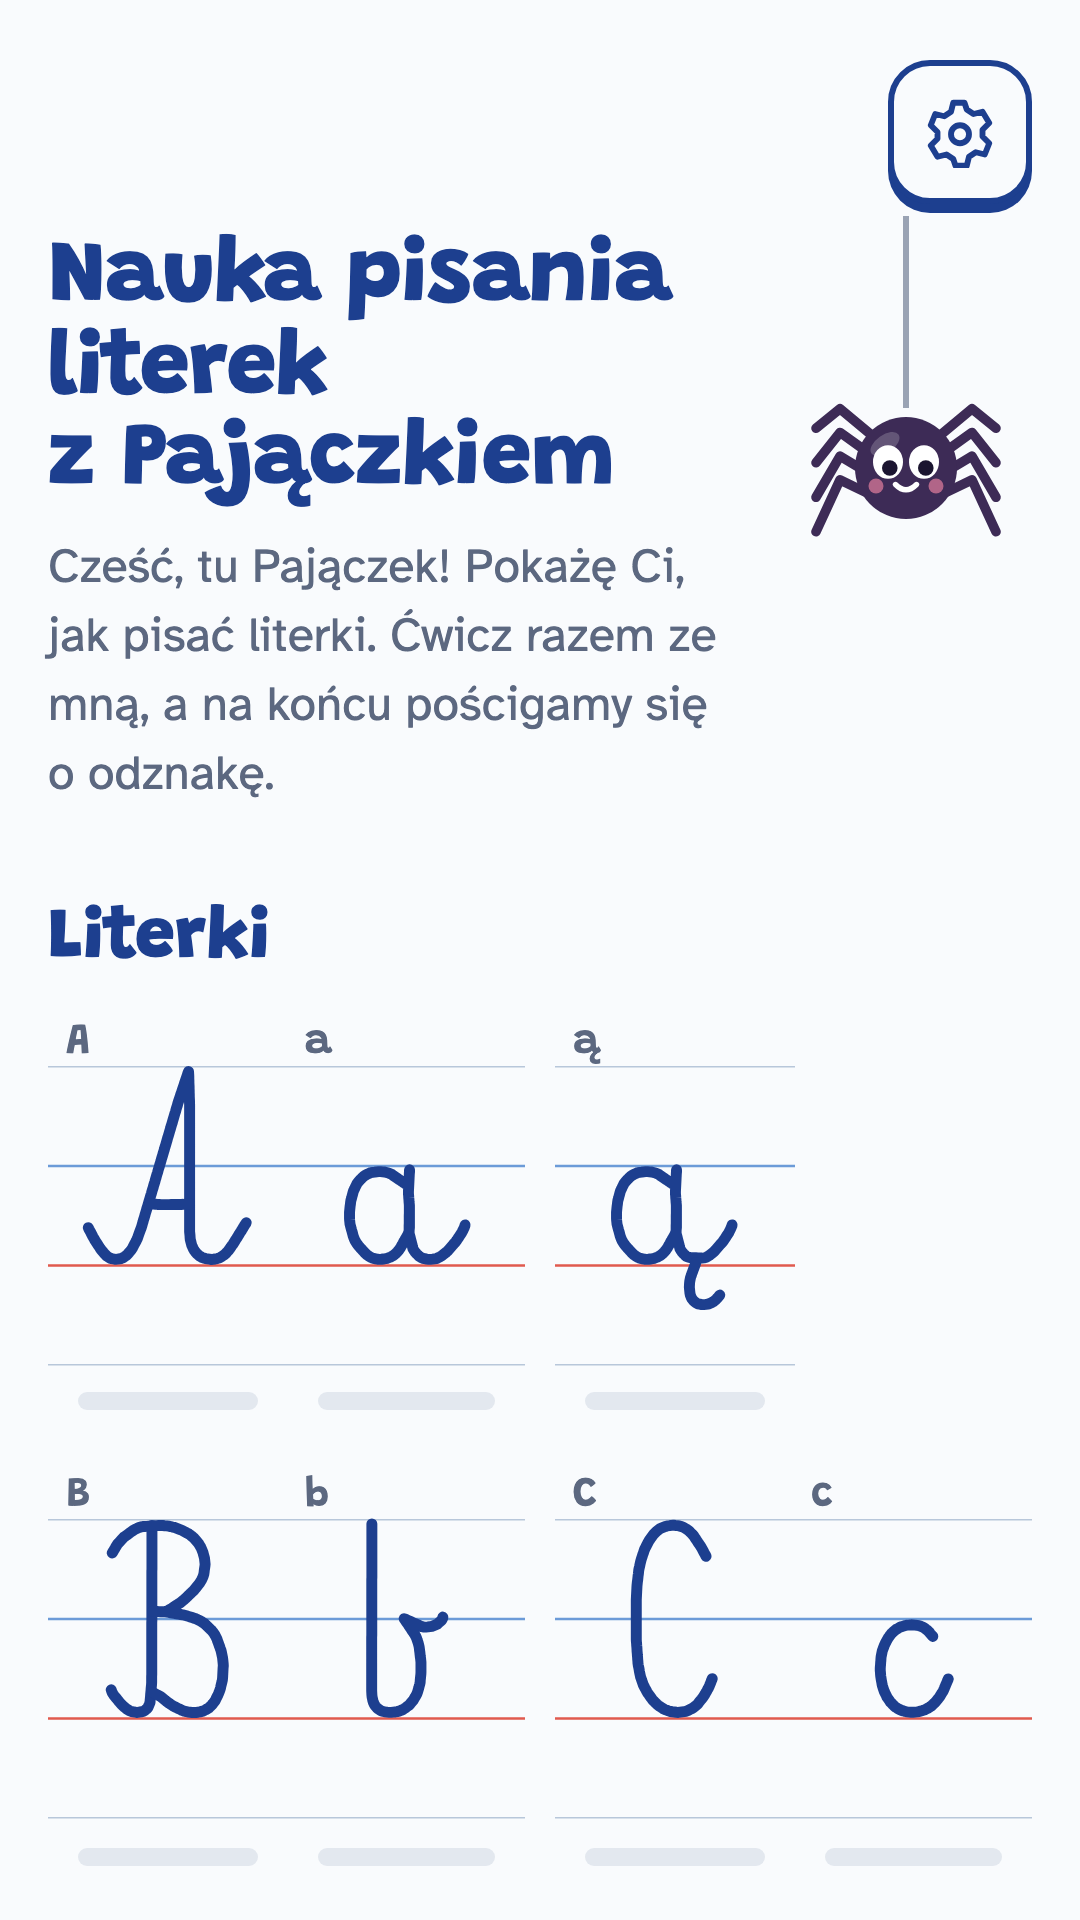
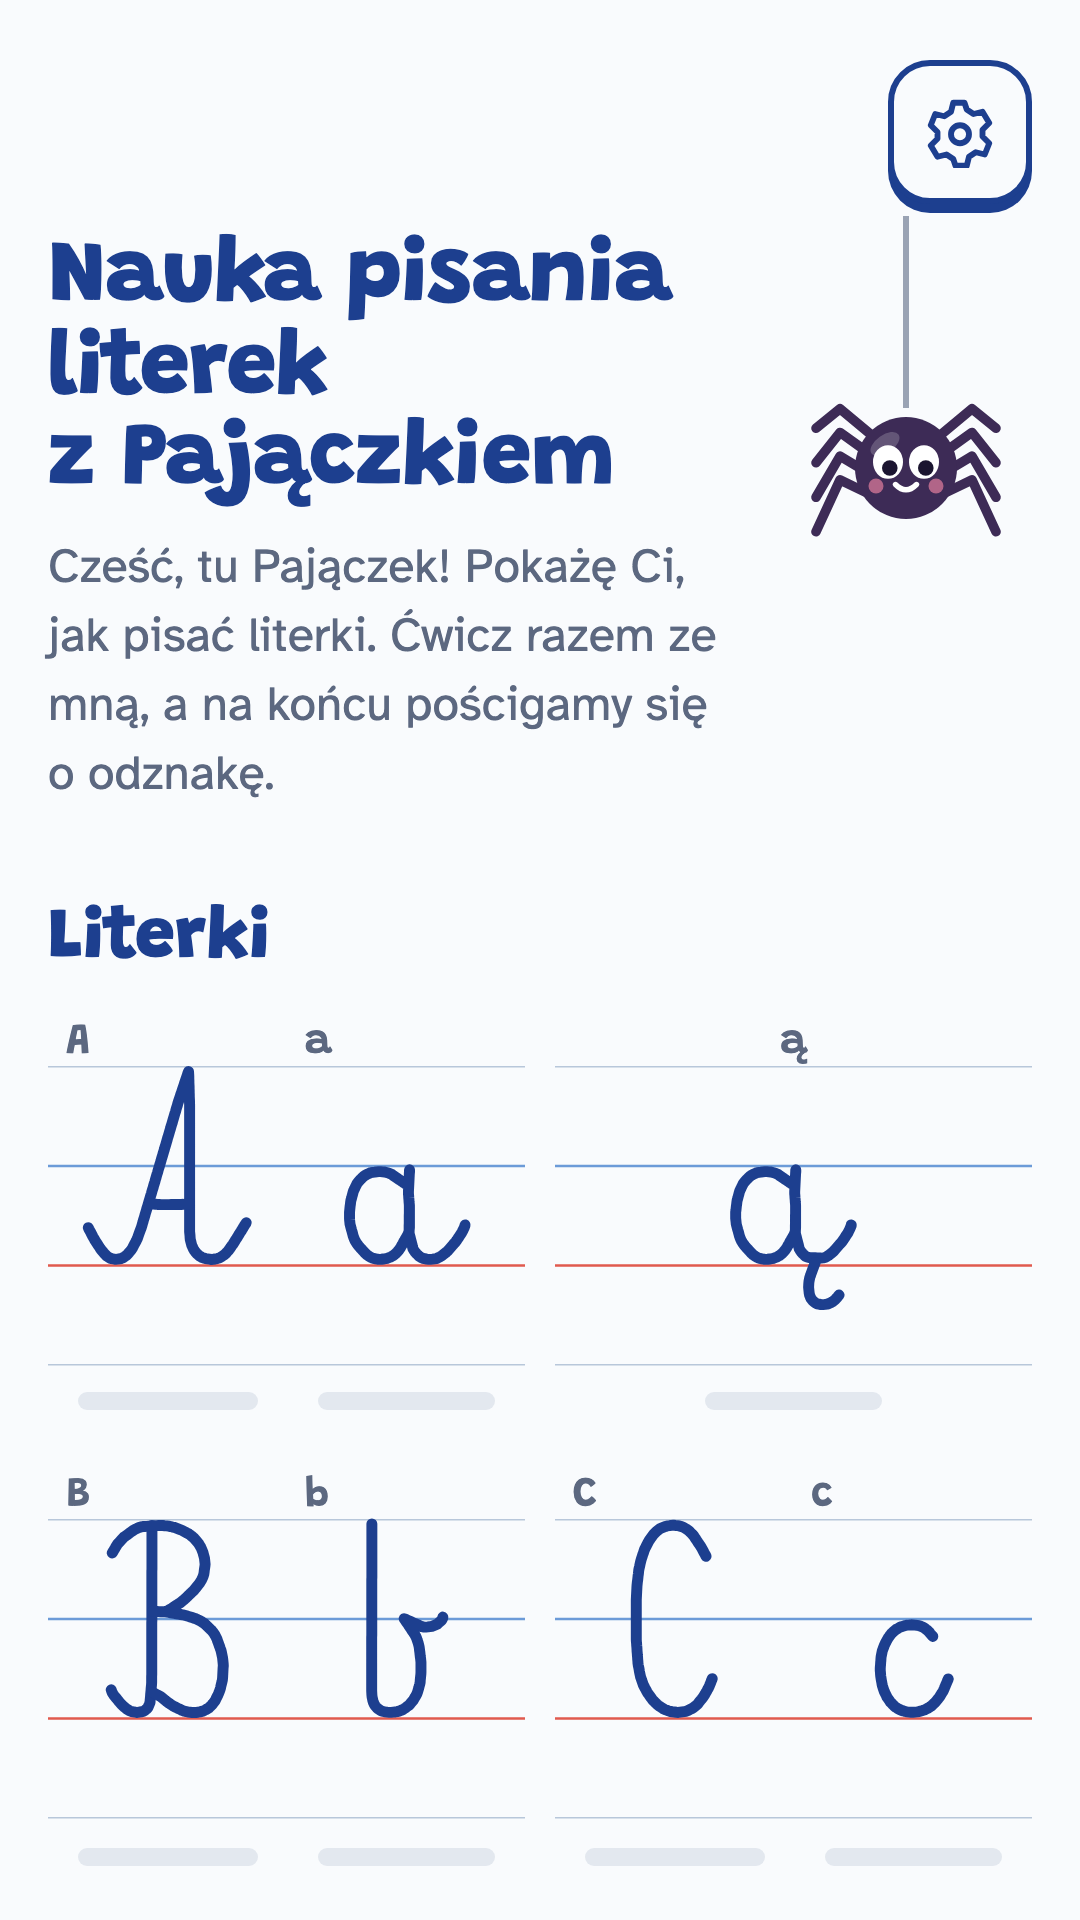
Center single letters on full-width handwriting guidelines

Changed region(s): [[0.55, 0.5938, 0.7944, 0.6875], [0.7333, 0.5312, 0.7639, 0.5625], [0.5194, 0.5312, 0.55, 0.5625]]

diff --git a/src/game.js b/src/game.js
@@ -168,28 +168,29 @@ function bigSpiderSVG() {
 
 /* ---------- menu: pary liter (wielka + mała) ---------- */
 function polyD(pts) { return 'M' + pts.map((p) => p[0].toFixed(1) + ' ' + p[1].toFixed(1)).join('L'); }
-function letterSheetSVG(ch) {
-  const vbW = 240, top = 50, H = 370, L = BUILT[ch], dx = (vbW - L.width) / 2;
+function letterSheetSVG(ch, vbW = 240) {
+  const top = 50, H = 370;
+  const letter = letterPaths(ch, 1, (vbW - BUILT[ch].width) / 2, top, C.ink, 11);
   let lines = '';
   [[0, C['line-top'], 1.5], [100, C['line-mid'], 2.5], [200, C['line-base'], 2.5], [300, C['line-top'], 1.5]].forEach(([y, c, w]) => {
     lines += `<line x1="-10" x2="${vbW + 10}" y1="${y + top}" y2="${y + top}" stroke="${c}" stroke-width="${w}"/>`;
   });
-  return `<svg class="sheet" viewBox="0 0 ${vbW} ${H}" style="aspect-ratio:${vbW}/${H}" preserveAspectRatio="none" aria-hidden="true">${lines}${letterPaths(ch, 1, dx, top, C.ink, 11)}</svg>`;
+  return `<svg class="sheet" viewBox="0 0 ${vbW} ${H}" style="aspect-ratio:${vbW}/${H}" preserveAspectRatio="none" aria-hidden="true">${lines}${letter}</svg>`;
 }
-function tileHTML(ch) {
+function tileHTML(ch, single = false) {
   const locked = !access.canPlay(ch);
   const p = store.badges[ch] ? 1 : Math.min(1, (store.prog[ch] || 0) / LEVELS.length);
   const what = isDigit(ch) ? 'cyferka' : (ch === ch.toLowerCase() ? 'mała literka' : 'wielka literka');
-  return `<button type="button" class="tile${locked ? ' locked' : ''}" id="tile-${ORDER.indexOf(ch)}" data-ch="${ch}" aria-label="${what} ${ch}${locked ? ', pełna wersja' : ''}${store.badges[ch] ? ', zdobyta odznaka' : ''}">
+  return `<button type="button" class="tile${single ? ' single' : ''}${locked ? ' locked' : ''}" id="tile-${ORDER.indexOf(ch)}" data-ch="${ch}" aria-label="${what} ${ch}${locked ? ', pełna wersja' : ''}${store.badges[ch] ? ', zdobyta odznaka' : ''}">
     <span class="lbl" aria-hidden="true">${ch}</span>${store.badges[ch] ? `<span class="med">${icon('badge')}</span>` : ''}
-    ${locked ? '<span class="tile-lock" aria-hidden="true">' + icon('lock') + '</span>' : ''}${letterSheetSVG(ch)}<span class="prog"><i style="width:${Math.round(p * 100)}%"></i></span></button>`;
+    ${locked ? '<span class="tile-lock" aria-hidden="true">' + icon('lock') + '</span>' : ''}${letterSheetSVG(ch, single ? 480 : 240)}<span class="prog"><i style="width:${Math.round(p * 100)}%"></i></span></button>`;
 }
 function renderMenu() {
   const page = document.getElementById('page');
   page.innerHTML = '<h2 class="sect" id="secLetters">Literki</h2>'
     + LOWER.map((ch) => `<div class="pair">${Object.hasOwn(LETTERS, ch.toUpperCase())
       ? tileHTML(ch.toUpperCase()) + tileHTML(ch)
-      : tileHTML(ch) + '<span class="tile-spacer" aria-hidden="true"></span>'}</div>`).join('')
+      : tileHTML(ch, true)}</div>`).join('')
     + '<h2 class="sect" id="secDigits">Cyferki</h2>'
     + [0, 1, 2, 3, 4].map((i) => `<div class="pair">${tileHTML(DIGITS[2 * i])}${tileHTML(DIGITS[2 * i + 1])}</div>`).join('');
   page.querySelectorAll('.tile').forEach((b) => b.addEventListener('click', () => { audio(); startLetter(b.dataset.ch, resumeLevel(b.dataset.ch)); }));

diff --git a/tests/ui/digits.spec.js b/tests/ui/digits.spec.js
@@ -21,7 +21,7 @@ for (const digit of ['5', '6']) {
   });
 }
 
-test('ą and ę occupy the left half of a full-width group, including with old saved capitals', async ({ page }, testInfo) => {
+test('ą and ę are centered on full-width guidelines, including with old saved capitals', async ({ page }, testInfo) => {
   await page.addInitScript(() => localStorage.setItem('pajak-dwulinia-v3', JSON.stringify({ prog: { 'Ą': 5, 'Ę': 11 }, badges: { 'Ę': true } })));
   await page.goto('/');
   await expect(page.locator('.tile')).toHaveCount(72);
@@ -32,14 +32,30 @@ test('ą and ę occupy the left half of a full-width group, including with old s
       const tile = page.locator(`.tile[data-ch="${ch}"]`);
       const group = page.locator('.pair').filter({ has: tile });
       await expect(group.locator('button')).toHaveCount(1);
-      await expect(group.locator('.tile-spacer')).toHaveAttribute('aria-hidden', 'true');
-      const [outer, left, right, regular] = await Promise.all([
-        group.boundingBox(), tile.boundingBox(), group.locator('.tile-spacer').boundingBox(), page.locator('.pair').first().boundingBox(),
+      const [outer, button, regular] = await Promise.all([
+        group.boundingBox(), tile.boundingBox(), page.locator('.pair').first().boundingBox(),
       ]);
       expect(Math.abs(outer.width - regular.width)).toBeLessThan(1);
-      expect(Math.abs(left.x - outer.x)).toBeLessThan(1);
-      expect(Math.abs(left.width - outer.width / 2)).toBeLessThan(1);
-      expect(Math.abs(right.x - left.x - left.width)).toBeLessThan(1);
+      expect(Math.abs(button.x - outer.x)).toBeLessThan(1);
+      expect(Math.abs(button.width - outer.width)).toBeLessThan(1);
+      const sheet = tile.locator('svg.sheet');
+      const paper = await sheet.boundingBox();
+      const standardSheet = page.locator('.pair').first().locator('svg.sheet').first();
+      const standardPaper = await standardSheet.boundingBox();
+      expect(Math.abs(paper.width - outer.width)).toBeLessThan(1);
+      expect(Math.abs(paper.height - standardPaper.height)).toBeLessThan(1);
+      const letterBounds = await sheet.locator('path').evaluateAll(paths => {
+        const bounds = paths.map(path => path.getBoundingClientRect());
+        return { left: Math.min(...bounds.map(b => b.left)), right: Math.max(...bounds.map(b => b.right)) };
+      });
+      expect(Math.abs((letterBounds.left + letterBounds.right) / 2 - outer.x - outer.width / 2)).toBeLessThan(1);
+      await expect(sheet.locator('line')).toHaveCount(4);
+      for (let line = 0; line < 4; line++) {
+        const a = standardSheet.locator('line').nth(line), b = sheet.locator('line').nth(line);
+        for (const attribute of ['y1', 'y2', 'stroke', 'stroke-width']) {
+          await expect(b).toHaveAttribute(attribute, await a.getAttribute(attribute));
+        }
+      }
     }
     expect(await page.evaluate(() => document.documentElement.scrollWidth <= innerWidth)).toBe(true);
   }

diff --git a/src/styles.css b/src/styles.css
@@ -64,6 +64,9 @@ button:is(.iconbtn, .tile, .hero-btn, .hifive):not(:disabled):is(:active, .is-pr
 .tile .med { position: absolute; top: 0; right: 2px; width: 22px; height: 22px; color: var(--gold-dark); }
 .tile .prog { margin: 0 10px; height: 6px; border-radius: 3px; background: var(--cup-empty); overflow: hidden; }
 .tile .prog i { display: block; height: 100%; background: var(--good); border-radius: 3px; }
+.tile.single { grid-column: 1 / -1; }
+.tile.single .lbl { left: 50%; transform: translateX(-50%); }
+.tile.single .prog { width: calc(50% - 20px); justify-self: center; }
 .sect { grid-column: 1 / -1; margin: 10px 0 0; font-family: var(--display); font-weight: 800; font-size: 24px; color: var(--ink); }
 .foot { margin-top: 26px; color: var(--muted); font-size: 14px; line-height: 1.5; max-width: 62ch; }
 .foot b { color: var(--text); }
